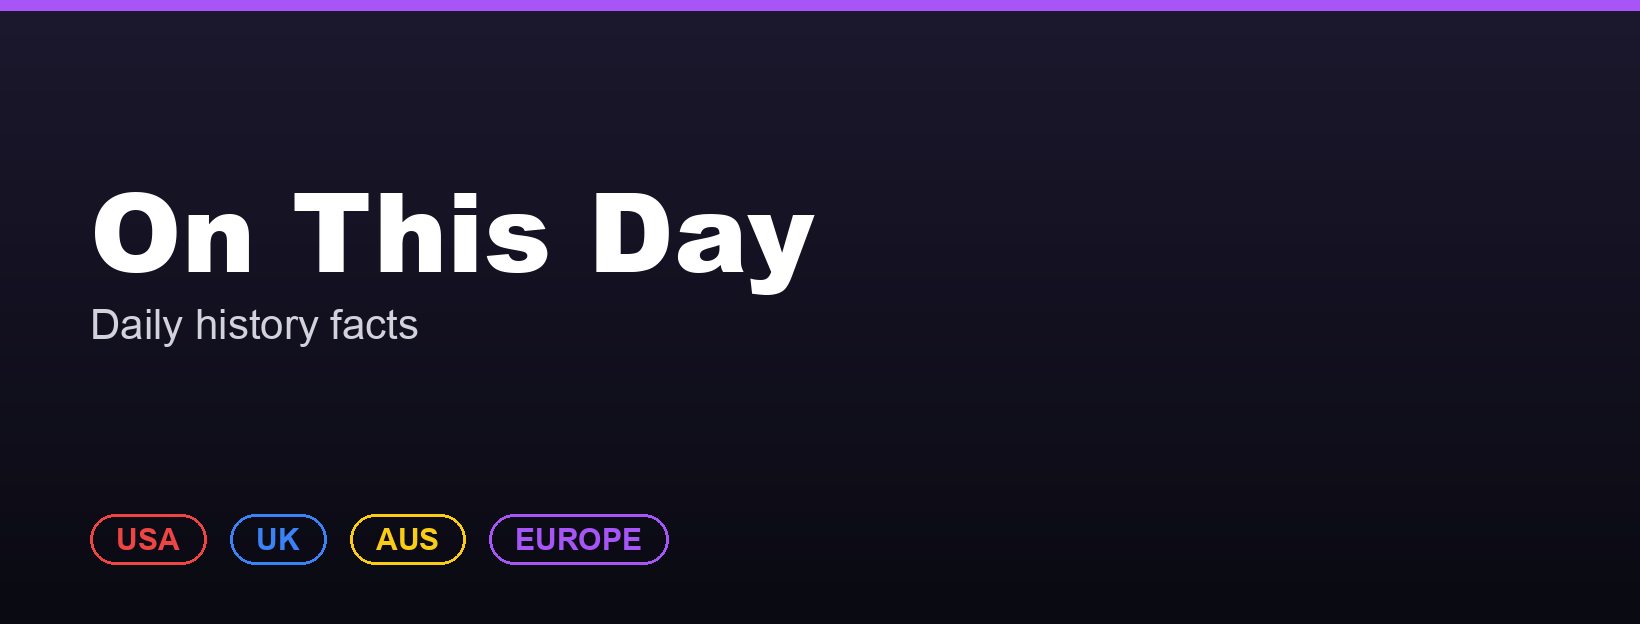
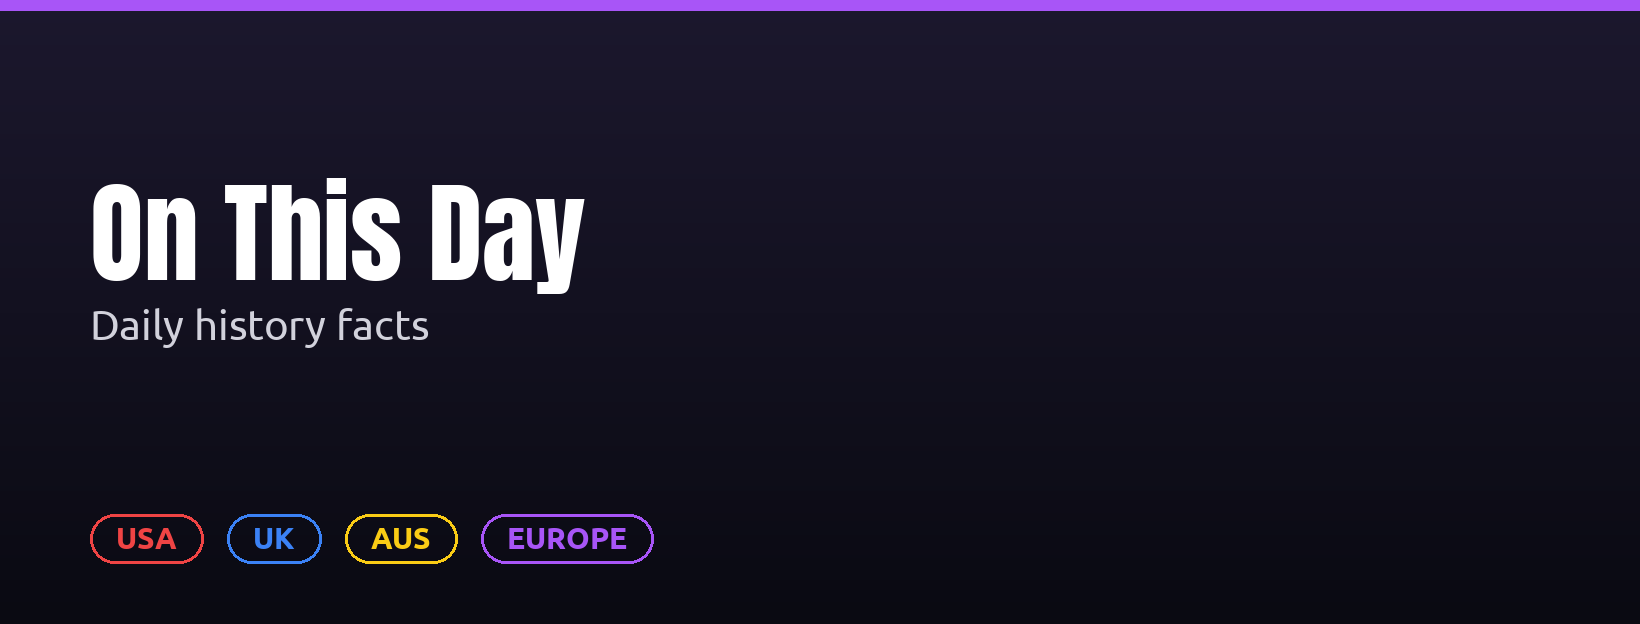
Bundle open-license fonts instead of macOS system fonts so rendering works on GitHub Actions runners

Changed region(s): [[0.0311, 0.274, 0.4976, 0.4872], [0.0622, 0.8221, 0.4043, 0.9135], [0.0622, 0.4872, 0.2799, 0.5481]]

diff --git a/content_pipeline/make_cards.py b/content_pipeline/make_cards.py
@@ -14,10 +14,12 @@ from PIL import Image, ImageDraw, ImageFont
 BASE_DIR = Path(__file__).resolve().parent
 W, H = 1080, 1350
 
-FONT_DIR = Path("/System/Library/Fonts/Supplemental")
-FONT_BOLD = FONT_DIR / "Arial Bold.ttf"
-FONT_BLACK = FONT_DIR / "Arial Black.ttf"
-FONT_REGULAR = FONT_DIR / "Arial.ttf"
+# Bundled fonts (not OS system fonts) so rendering is identical on macOS and on
+# GitHub Actions' Ubuntu runners. Anton and Ubuntu are free, open-license (OFL/UFL).
+FONT_DIR = Path(__file__).resolve().parent / "fonts"
+FONT_BOLD = FONT_DIR / "Ubuntu-Bold.ttf"
+FONT_BLACK = FONT_DIR / "Anton-Regular.ttf"
+FONT_REGULAR = FONT_DIR / "Ubuntu-Regular.ttf"
 
 # Palette per region so the feed doesn't look monotonous, but stays consistent as a brand
 PALETTE = {
@@ -105,7 +107,7 @@ def make_card(fact, out_path, page_handle="@YourPage"):
     cta_font = ImageFont.truetype(str(FONT_REGULAR), 30)
     draw.rectangle([0, H - 130, W, H], fill=(0, 0, 0))
     draw.text((margin, H - 100), page_handle, font=footer_font, fill=accent)
-    draw.text((margin, H - 55), "Follow for daily history facts →", font=cta_font, fill=(220, 220, 220))
+    draw.text((margin, H - 55), "Follow for daily history facts", font=cta_font, fill=(220, 220, 220))
 
     img.save(out_path, quality=95)
     return out_path

diff --git a/content_pipeline/branding/make_page_assets.py b/content_pipeline/branding/make_page_assets.py
@@ -12,10 +12,12 @@ from pathlib import Path
 
 from PIL import Image, ImageDraw, ImageFont
 
-FONT_DIR = Path("/System/Library/Fonts/Supplemental")
-FONT_BLACK = FONT_DIR / "Arial Black.ttf"
-FONT_BOLD = FONT_DIR / "Arial Bold.ttf"
-FONT_REGULAR = FONT_DIR / "Arial.ttf"
+# Bundled fonts (not OS system fonts) so rendering is identical on macOS and on
+# GitHub Actions' Ubuntu runners. Anton and Ubuntu are free, open-license (OFL/UFL).
+FONT_DIR = Path(__file__).resolve().parent.parent / "fonts"
+FONT_BLACK = FONT_DIR / "Anton-Regular.ttf"
+FONT_BOLD = FONT_DIR / "Ubuntu-Bold.ttf"
+FONT_REGULAR = FONT_DIR / "Ubuntu-Regular.ttf"
 
 BG_TOP = (28, 24, 46)
 BG_BOTTOM = (10, 10, 18)